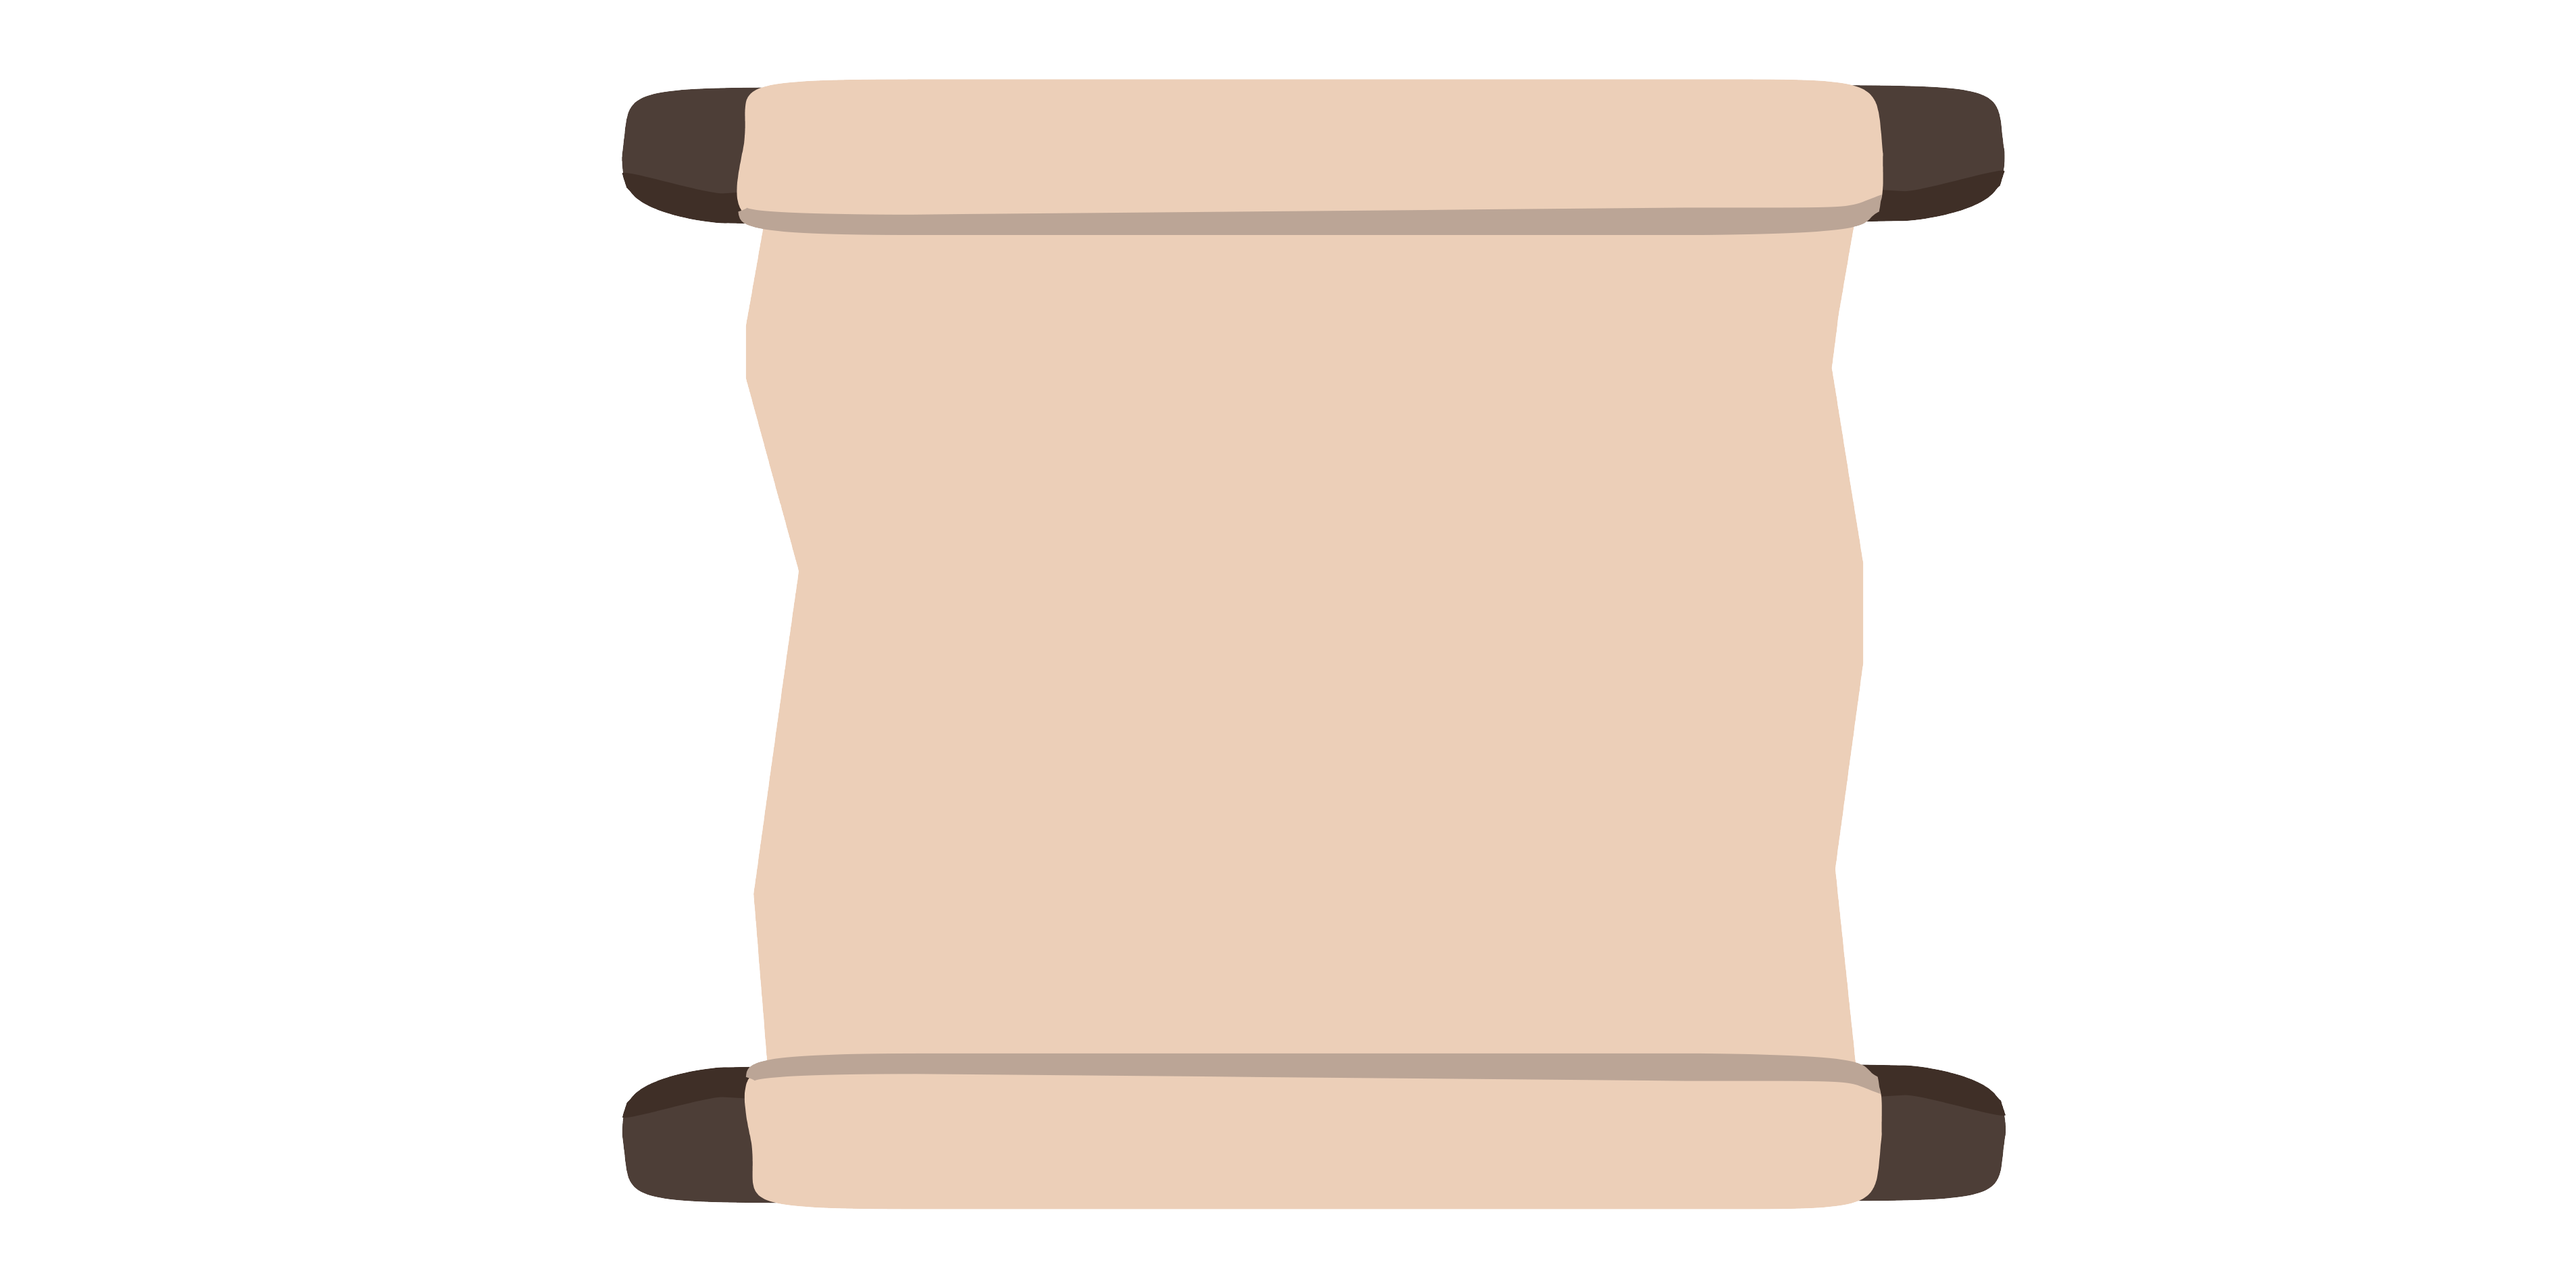
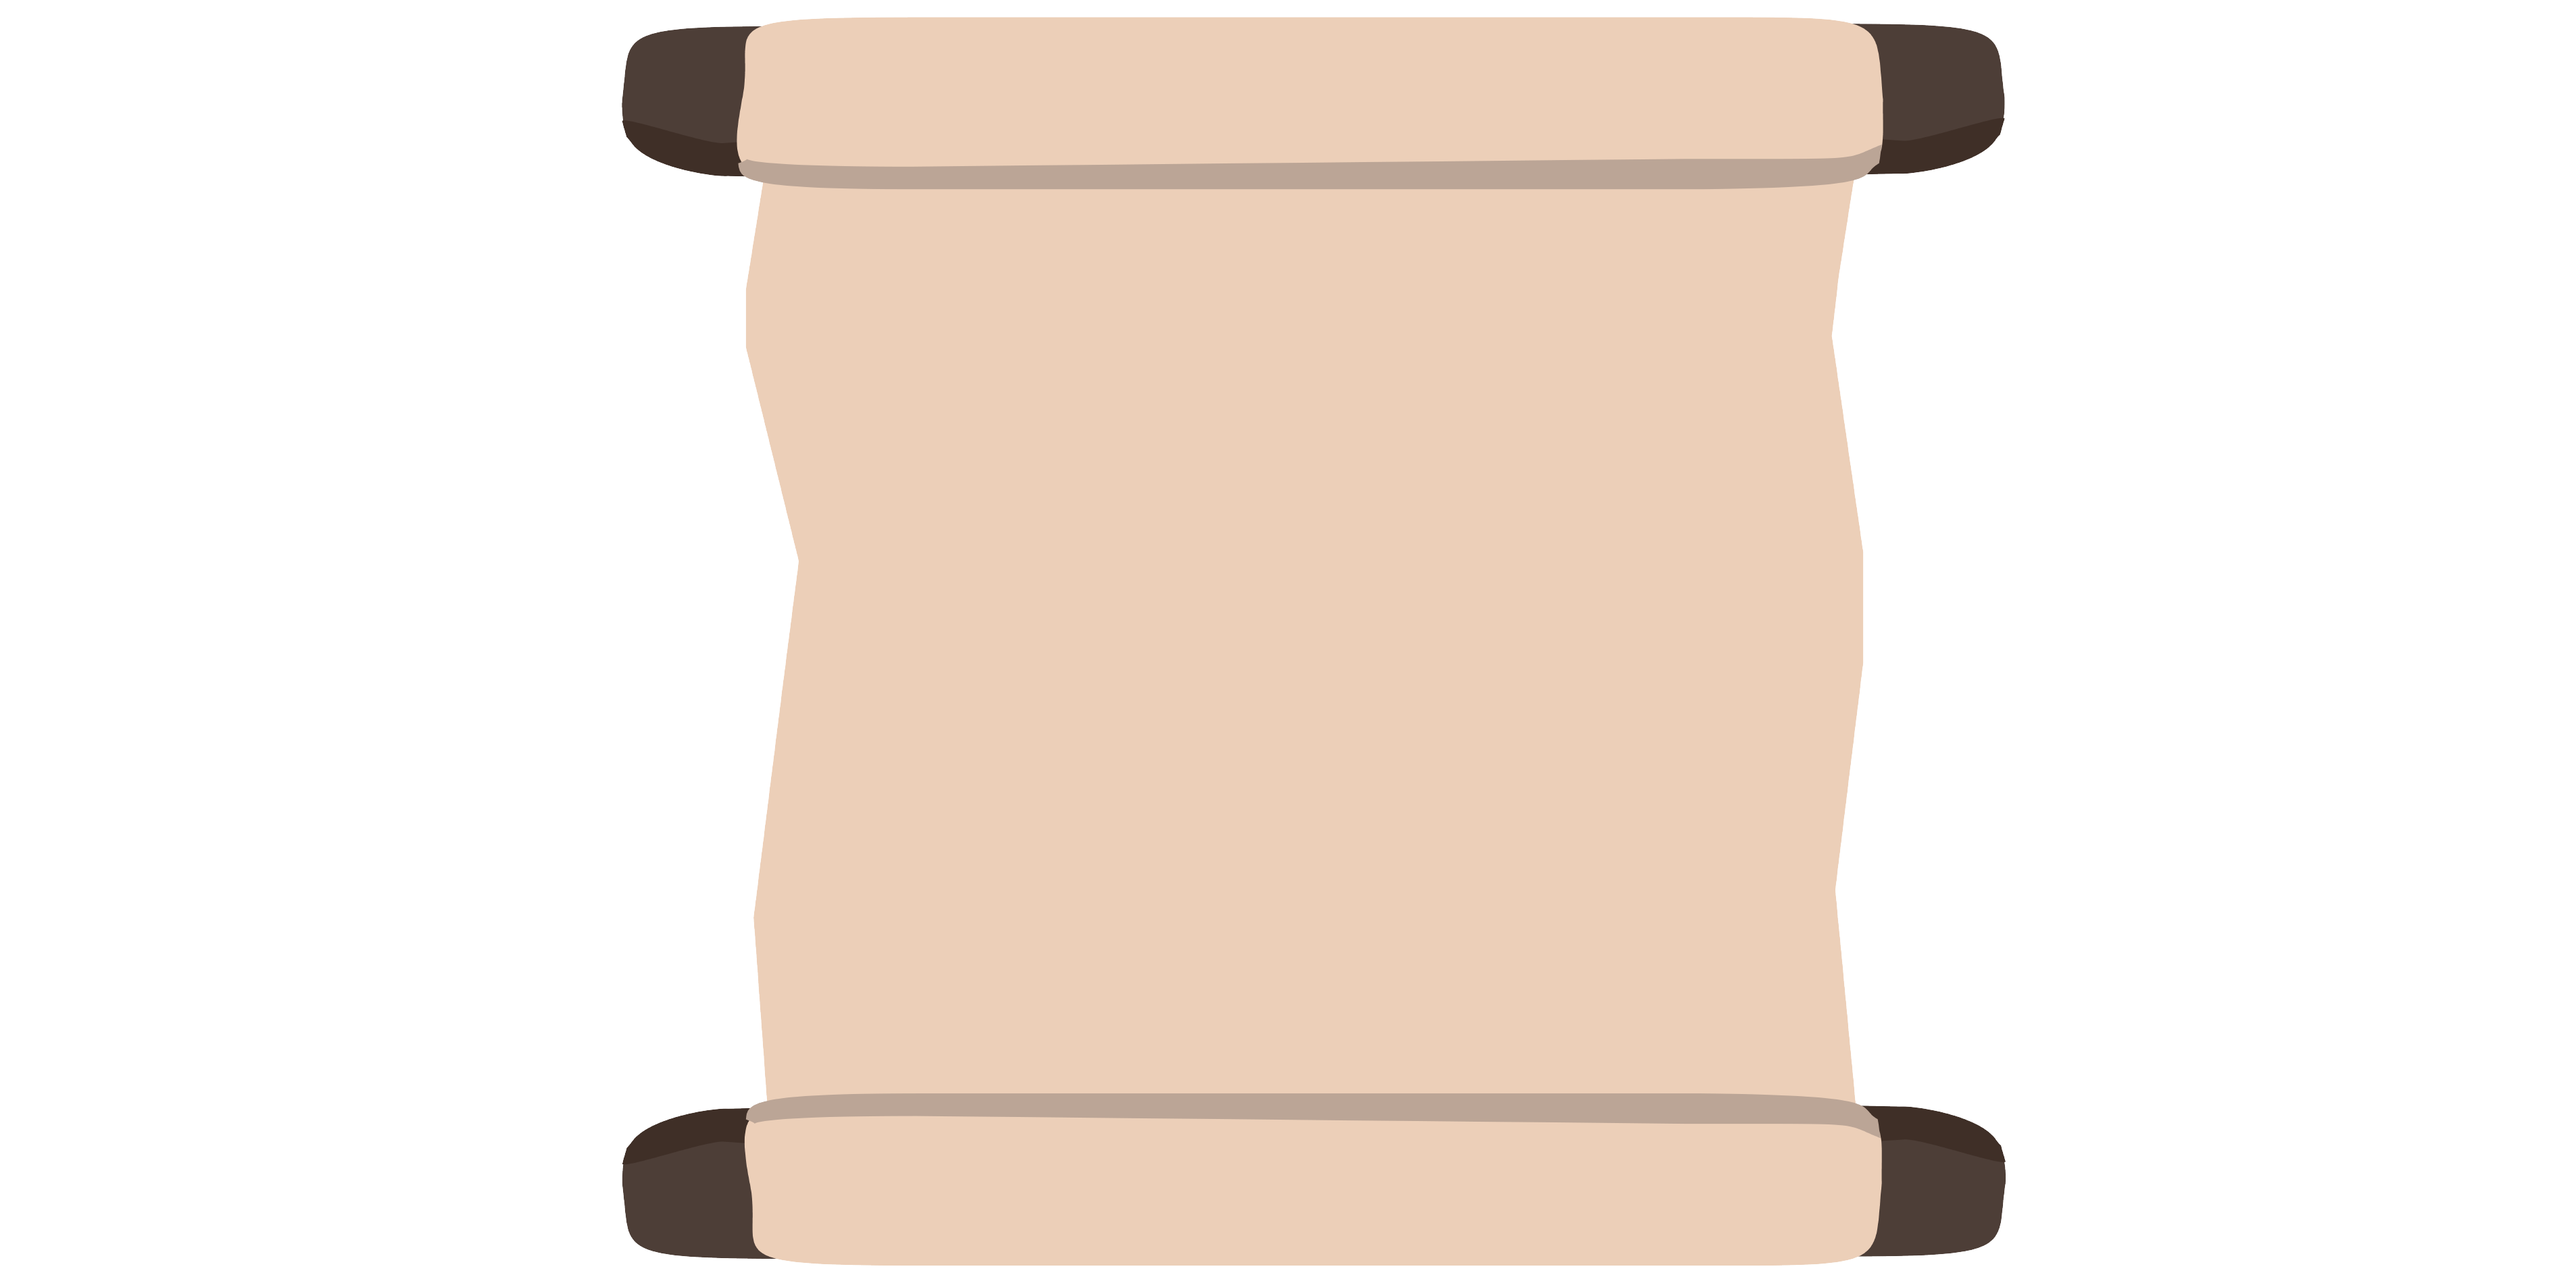
modify result files (html, css, image)

Changed region(s): [[0.2185, 0.8125, 0.7804, 1.0], [0.2185, 0.0, 0.7804, 0.1875]]

diff --git a/result_7.html b/result_7.html
@@ -8,7 +8,7 @@
     <body>
         <div class="wrap">
             <!-- background image -->
-            <img src="image/screen/result_screen.png" style="width: 960px; height: 650px;">
+            <img src="image/screen/result_screen.png" style="width: 960px; height: 480px;">
             <div class="result_text_head"> 짠!&nbsp; <b>헨드라 바이러스</b> 완성! </div>
             <div class="result_text_contents">
                 단일 가닥의 선상 RNA 바이러스이며,<br> 박쥐, 말 등에서 발견되었다고 한다.<br> 독감과 비슷한 증상을 보인다.

diff --git a/result_2.html b/result_2.html
@@ -8,7 +8,7 @@
     <body>
         <div class="wrap">
             <!-- background image -->
-            <img src="image/screen/result_screen.png" style="width: 960px; height: 650px;">
+            <img src="image/screen/result_screen.png" style="width: 960px; height: 480px;">
             <div class="result_text_head"> 짠!&nbsp; <b>메르스 바이러스</b> 완성! </div>
             <div class="result_text_contents">
                 메르스 또는 중동호흡기중후군의 원인 병원체로<br> 정확한 명칭은 메르스 코로나 바이러스이다.<br>

diff --git a/result_3.html b/result_3.html
@@ -8,7 +8,7 @@
     <body>
         <div class="wrap">
             <!-- background image -->
-            <img src="image/screen/result_screen.png" style="width: 960px; height: 650px;">
+            <img src="image/screen/result_screen.png" style="width: 960px; height: 480px;">
             <div class="result_text_head"> 짠!&nbsp; <b>인플루엔자 바이러스</b> 완성! </div>
             <div class="result_text_contents">
                 신종플루, 독감의 A, B, C<br> 모두 인플루엔자 바이러스의 종류로<br> 생기는 독감의 종류이다.<br>

diff --git a/result_5.html b/result_5.html
@@ -8,7 +8,7 @@
     <body>
         <div class="wrap">
             <!-- background image -->
-            <img src="image/screen/result_screen.png" style="width: 960px; height: 650px;">
+            <img src="image/screen/result_screen.png" style="width: 960px; height: 480px;">
             <div class="result_text_head"> 짠!&nbsp; <b>니파 바이러스</b> 완성! </div>
             <div class="result_text_contents">
                 동남아시아 지역에서 발생하는<br> 동물 매개 감염병의 병원체이다.<br> 왕박쥐 속과의 박쥐가<br>

diff --git a/result_9.html b/result_9.html
@@ -8,7 +8,7 @@
     <body>
         <div class="wrap">
             <!-- background image -->
-            <img src="image/screen/result_screen.png" style="width: 960px; height: 650px;">
+            <img src="image/screen/result_screen.png" style="width: 960px; height: 480px;">
             <div class="result_text_head"> 짠!&nbsp; <b>에볼라 바이러스</b> 완성! </div>
             <div class="result_text_contents">
                 감염된 사람의 혈액, 분비물 등의<br> 직접 접촉에서 전염된다.<br> 정확한 기원은 없지만<br>

diff --git a/result_4.html b/result_4.html
@@ -8,7 +8,7 @@
     <body>
         <div class="wrap">
             <!-- background image -->
-            <img src="image/screen/result_screen.png" style="width: 960px; height: 650px;">
+            <img src="image/screen/result_screen.png" style="width: 960px; height: 480px;">
             <div class="result_text_head"> 짠!&nbsp; <b>사스 바이러스</b> 완성! </div>
             <div class="result_text_contents">
                 중증급성호흡기증후군이라고도 하며,<br> 2002년 중국에서 발병된 사스의 바이러스이다.<br>

diff --git a/result_1.html b/result_1.html
@@ -8,7 +8,7 @@
     <body>
         <div class="wrap">
             <!-- background image -->
-            <img src="image/screen/result_screen.png" style="width: 960px; height: 650px;">
+            <img src="image/screen/result_screen.png" style="width: 960px; height: 480px;">
             <div class="result_text_head"> 짠!&nbsp;<b>코로나19 바이러스</b> 완성! </div>
             <div class="result_text_contents">
                 정확한 명칭은 SARS-Cov-2 바이러스로<br> 사스 바이러스와 같은 RNA 바이러스이다.<br>

diff --git a/result_6.html b/result_6.html
@@ -8,7 +8,7 @@
     <body>
         <div class="wrap">
             <!-- background image -->
-            <img src="image/screen/result_screen.png" style="width: 960px; height: 650px;">
+            <img src="image/screen/result_screen.png" style="width: 960px; height: 480px;">
             <div class="result_text_head"> 짠!&nbsp; <b>HIV 바이러스</b> 완성! </div>
             <div class="result_text_contents">
                 인체 면역결핍 바이러스라고 하며,<br> 우리가 알고 있는 에이즈는 <br>HIV 감염 중 많이

diff --git a/result_8.html b/result_8.html
@@ -8,7 +8,7 @@
     <body>
         <div class="wrap">
             <!-- background image -->
-            <img src="image/screen/result_screen.png" style="width: 960px; height: 650px;">
+            <img src="image/screen/result_screen.png" style="width: 960px; height: 480px;">
             <div class="result_text_head"> 짠!&nbsp; <b>지카 바이러스</b> 완성! </div>
             <div class="result_text_contents">
                 1947 우간다 지카 숲에 사는 원숭이에게서<br> 처음 발견되어 지카 바이러스라고<br>

diff --git a/css/result.css b/css/result.css
@@ -36,7 +36,7 @@ body
         text-align: center;
         
         position: absolute;
-        top: 12%;
+        top: 8%;
         left: 50%;
         transform: translate( -50%, -50% );
     }
